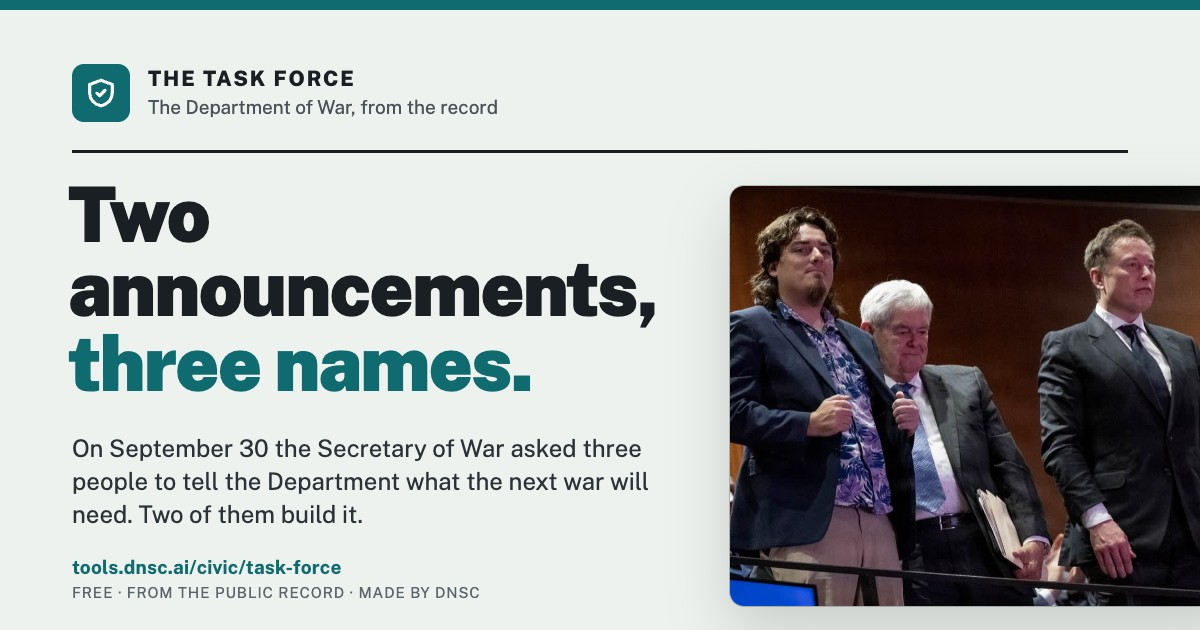
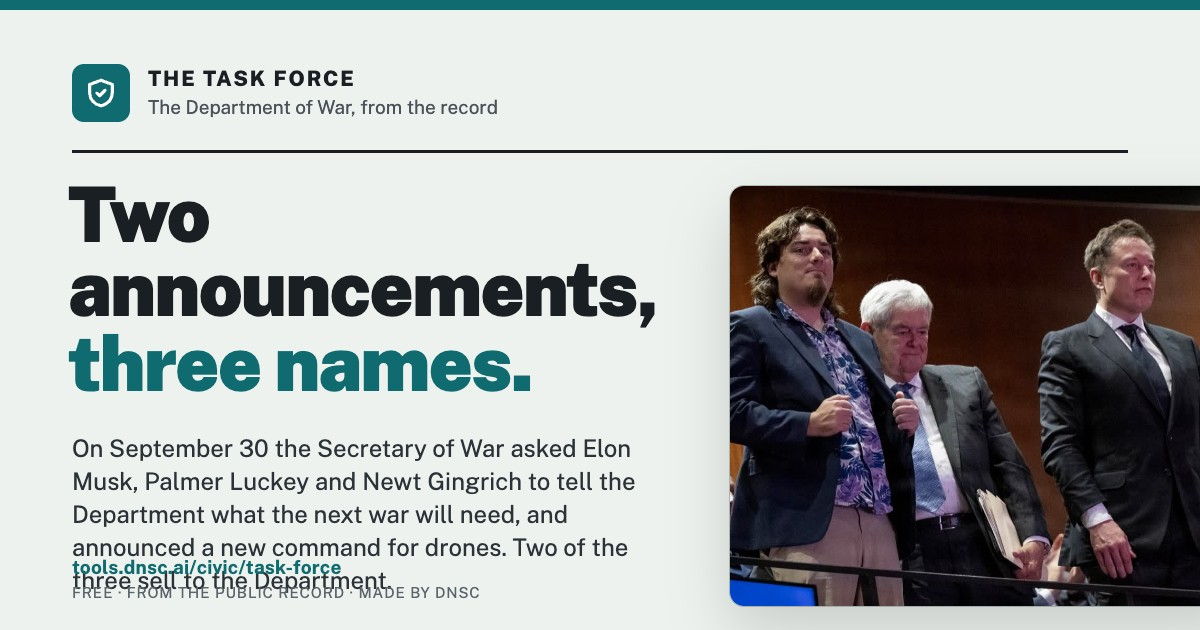
Civic: ledes say AI and name the people

Changed region(s): [[0.0617, 0.754, 0.555, 0.9349], [0.4625, 0.6937, 0.555, 0.7238]]

diff --git a/civic/task-force/index.html b/civic/task-force/index.html
@@ -360,7 +360,7 @@ ol.src li{overflow-wrap:anywhere}
 <section class="hero">
   <p class="kick">From the record · Sept. 30 to Oct. 4</p>
   <h1>Three men in the balcony. <i>One hundred and twenty days.</i></h1>
-  <p class="lede">On September 30 the Secretary of War asked three people to tell the Department what the next war will need. Two of them build it.</p>
+  <p class="lede">On September 30 the Secretary of War asked Elon Musk, Palmer Luckey and Newt Gingrich to tell the Department what the next war will need, and announced a new command for drones. Two of the three sell to the Department.</p>
   <p class="stamp"><time datetime="2026-10-04">Published October 4, 2026</time></p>
 </section>
 

diff --git a/civic/the-table/index.html b/civic/the-table/index.html
@@ -317,7 +317,7 @@ ol.src li{margin:6px 0;font-size:.95rem;line-height:1.45}
 <section class="hero">
   <p class="kick">From the record, Sept. 29 to Oct. 4</p>
   <h1>They promised to check <i>themselves.</i></h1>
-  <p class="lede">Six companies and the President signed one page over lunch on September 29.</p>
+  <p class="lede">The President and six AI companies signed a one-page accord on superintelligence over lunch on September 29.</p>
   <p class="stamp"><time datetime="2026-10-04">Published October 4, 2026</time></p>
   <p class="related">Related · At the Department of War, September 30: <a href="https://tools.dnsc.ai/civic/task-force/">the task force</a>.</p>
 </section>

diff --git a/civic/task-force/index.md b/civic/task-force/index.md
@@ -10,7 +10,7 @@ From the record · Sept. 30 to Oct. 4
 
 ## Three men in the balcony. One hundred and twenty days.
 
-On September 30 the Secretary of War asked three people to tell the Department what the next war will need. Two of them build it.
+On September 30 the Secretary of War asked Elon Musk, Palmer Luckey and Newt Gingrich to tell the Department what the next war will need, and announced a new command for drones. Two of the three sell to the Department.
 
 Published October 4, 2026
 

diff --git a/civic/the-table/index.md b/civic/the-table/index.md
@@ -10,7 +10,7 @@ From the record, Sept. 29 to Oct. 4
 
 ## They promised to check themselves.
 
-Six companies and the President signed one page over lunch on September 29.
+The President and six AI companies signed a one-page accord on superintelligence over lunch on September 29.
 
 Published October 4, 2026
 
